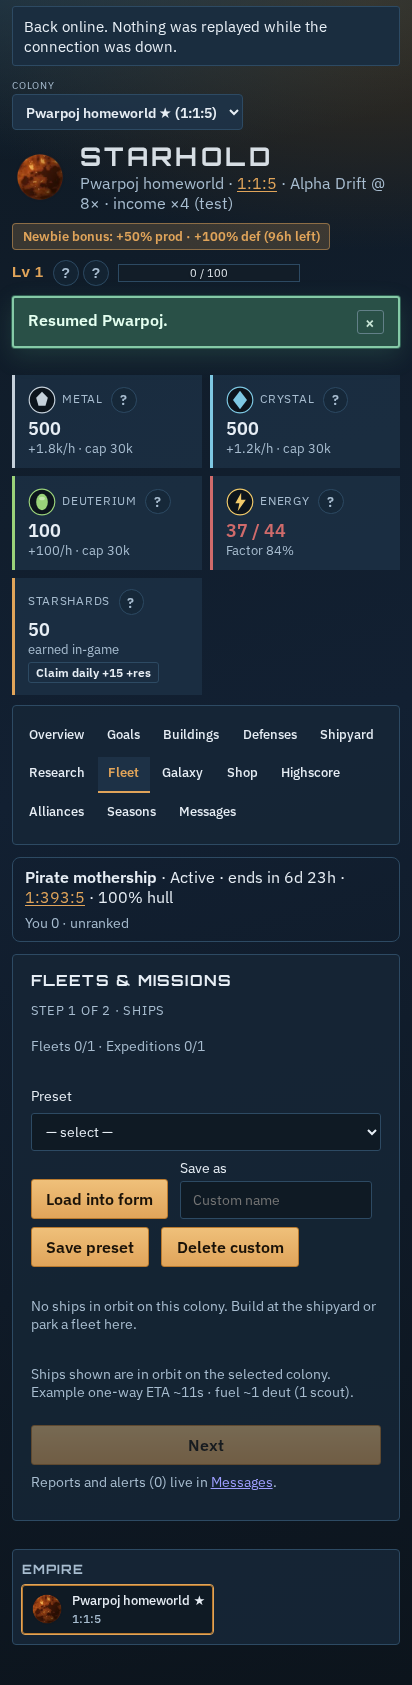
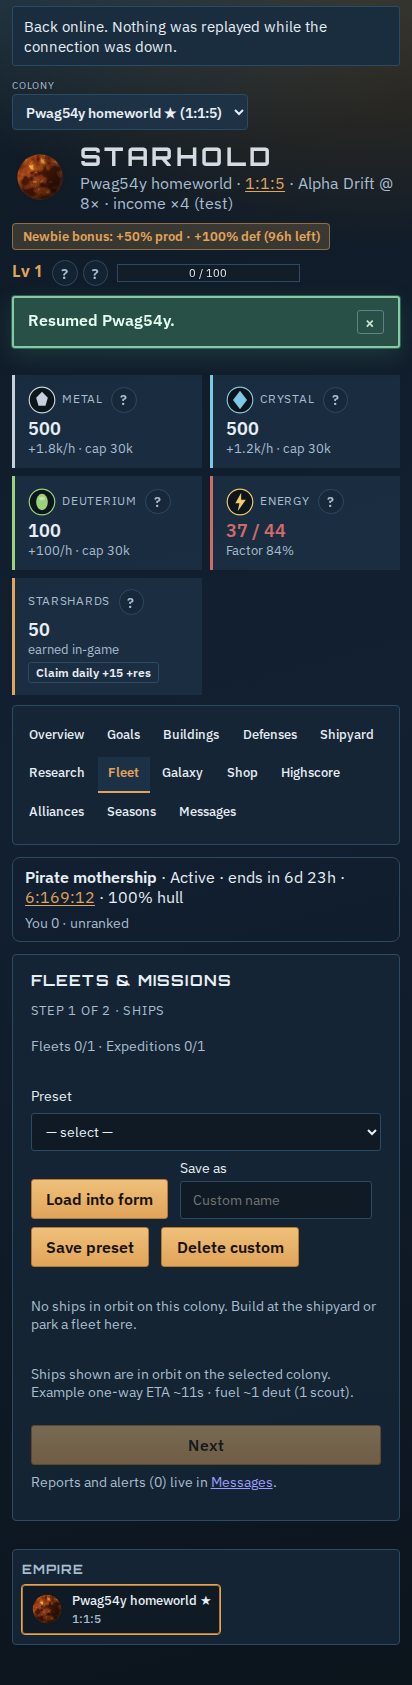
[PWA] Prove the manifest cache key stays off the document
The shell worker already stores HTML only at /index.html and the manifest only at /manifest.webmanifest. Lock that in the unit test, the production smoke (including desktop), and the installable-app map entry.

diff --git a/apps/web/src/pwa-policy.test.ts b/apps/web/src/pwa-policy.test.ts
@@ -174,6 +174,28 @@ describe("service worker allowlist", () => {
       assert.equal(await (await cache.match(htmlKey)).text(), "cached HTML");
       assert.equal(await (await cache.match(manifestKey)).text(), "fresh manifest");
 
+      globalThis.fetch = async () => {
+        const response = new Response("<html>fresh document</html>", {
+          headers: { "Content-Type": "text/html", "Set-Cookie": "session=secret" },
+        });
+        Object.defineProperty(response, "type", { value: "basic" });
+        return response;
+      };
+      await networkFirst(new Request(`${ORIGIN}/?playerId=private`), ORIGIN);
+      assert.equal(await (await cache.match(htmlKey)).text(), "cached HTML");
+      assert.equal(await (await cache.match(manifestKey)).text(), "fresh manifest");
+
+      globalThis.fetch = async () => {
+        const response = new Response("<html>fresh document</html>", {
+          headers: { "Content-Type": "text/html" },
+        });
+        Object.defineProperty(response, "type", { value: "basic" });
+        return response;
+      };
+      await networkFirst(new Request(`${ORIGIN}/?playerId=private`), ORIGIN);
+      assert.equal(await (await cache.match(htmlKey)).text(), "<html>fresh document</html>");
+      assert.equal(await (await cache.match(manifestKey)).text(), "fresh manifest");
+
       await cache.delete(manifestKey);
       globalThis.fetch = async () => {
         throw new Error("offline");

diff --git a/docs/FEATURE_MAP.md b/docs/FEATURE_MAP.md
@@ -162,7 +162,7 @@ Starhold can be added to an iPhone or Android home screen. It is not a store app
 
 The install note explains Share → Add to Home Screen on iPhone. Android shows Install app only after the browser fires `beforeinstallprompt`. Other browsers get written steps and no Install button. Dismiss stores `starhold-pwa-install-dismissed` and does not ask again. Standalone display, including iOS `navigator.standalone`, hides the note.
 
-A shell service worker (`/sw.js`) caches only the public document, manifest, icons, and hashed `/assets/*.js|css` files, capped at 24 entries. The document and manifest use separate cache keys; it does not cache `/api`, auth, or player data, and it does not reload the page. While the fleet screen is open the update control will not reload. Offline copy says the game is not playable and that orders are not queued. Coming back online does not replay them.
+A shell service worker (`/sw.js`) caches only the public document, manifest, icons, and hashed `/assets/*.js|css` files, capped at 24 entries. The document is stored only under `/index.html` (the query string is stripped, so a player id in the URL is not a cache key). The manifest is stored only under `/manifest.webmanifest`. Those keys do not overwrite each other. An offline manifest miss returns the plain offline text and does not serve the cached HTML document. Responses that carry `Set-Cookie`, and every `/api` or auth request, are not stored. The worker does not reload the page. While the fleet screen is open the update control will not reload. Offline copy says the game is not playable and that orders are not queued. Coming back online does not replay them.
 
 No save fields were added. `packages/game/src/fixtures/in-flight-fleet-save.json` is a main-branch universe with one deploy still in flight; `migrateOrResetUniverse` keeps that fleet.
 
